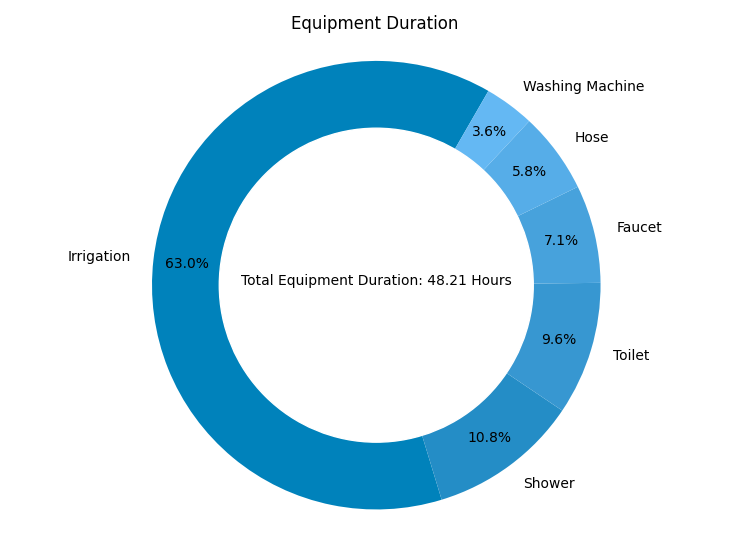
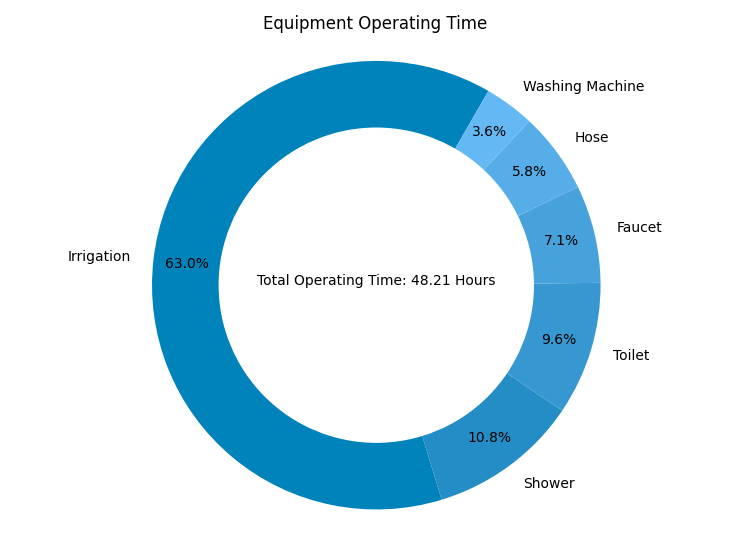
Rename Plots

Changed region(s): [[0.3067, 0.4945, 0.6747, 0.5255], [0.3373, 0.0309, 0.644, 0.0618]]

diff --git a/main.py b/main.py
@@ -31,10 +31,10 @@ if __name__ == '__main__':
     circle = plt.Circle((0, 0), 0.7, color='white')
     p = plt.gcf()
     p.gca().add_artist(circle)
-    text = f'Total Water Used: {round(df.Value.sum(), 2):,} Gallons'
+    text = f'Total Volume: {round(df.Value.sum(), 2):,} Gallons'
     plt.text(0, 0, text, ha='center', wrap=True)
     plt.axis('equal')
-    plt.title('Total Water Use')
+    plt.title('Total Volume Used')
 
     plt.tight_layout()
     plt.savefig('./Plots/TotalVolume.png')
@@ -50,10 +50,10 @@ if __name__ == '__main__':
     circle = plt.Circle((0, 0), 0.7, color='white')
     p = plt.gcf()
     p.gca().add_artist(circle)
-    text = f'Total Water Used: {round(df.Value.sum(), 2):,} Gallons'
+    text = f'Total Volume {round(df.Value.sum(), 2):,} Gallons'
     plt.text(0, 0, text, ha='center', wrap=True)
     plt.axis('equal')
-    plt.title('Total Water Use Excluding Irrigation')
+    plt.title('Total Volume Used Excluding Irrigation')
 
     plt.tight_layout()
     plt.savefig('./Plots/TotalVolumeIrr.png')
@@ -71,10 +71,10 @@ if __name__ == '__main__':
     circle = plt.Circle((0, 0), 0.7, color='white')
     p = plt.gcf()
     p.gca().add_artist(circle)
-    text = f'Total Equipment Duration: {round(df.Value.sum() / 60, 2):,} Hours'
+    text = f'Total Operating Time: {round(df.Value.sum() / 60, 2):,} Hours'
     plt.text(0, 0, text, ha='center', wrap=True)
     plt.axis('equal')
-    plt.title('Equipment Duration')
+    plt.title('Equipment Operating Time')
 
     plt.tight_layout()
     plt.savefig('./Plots/Duration.png')
@@ -90,10 +90,10 @@ if __name__ == '__main__':
     circle = plt.Circle((0, 0), 0.7, color='white')
     p = plt.gcf()
     p.gca().add_artist(circle)
-    text = f'Total Equipment Duration: {round(df.Value.sum() / 60, 2):,} Hours'
+    text = f'Total Operating Time: {round(df.Value.sum() / 60, 2):,} Hours'
     plt.text(0, 0, text, ha='center', wrap=True)
     plt.axis('equal')
-    plt.title('Equipment Duration Excluding Irrigation')
+    plt.title('Equipment Operating Time Excluding Irrigation')
 
     plt.tight_layout()
     plt.savefig('./Plots/DurationIrr.png')
@@ -111,7 +111,7 @@ if __name__ == '__main__':
     plt.figure(figsize=(7.5, 5.5))
     sq.plot(sizes=df.Value, label=labels, color=color_list, pad=True)
     plt.axis('off')
-    plt.title('Average Water Volume Used by Equipment')
+    plt.title('Average Volume Used in Each Occurrence')
 
     plt.tight_layout()
     plt.savefig('./Plots/VolumeAVG.png')
